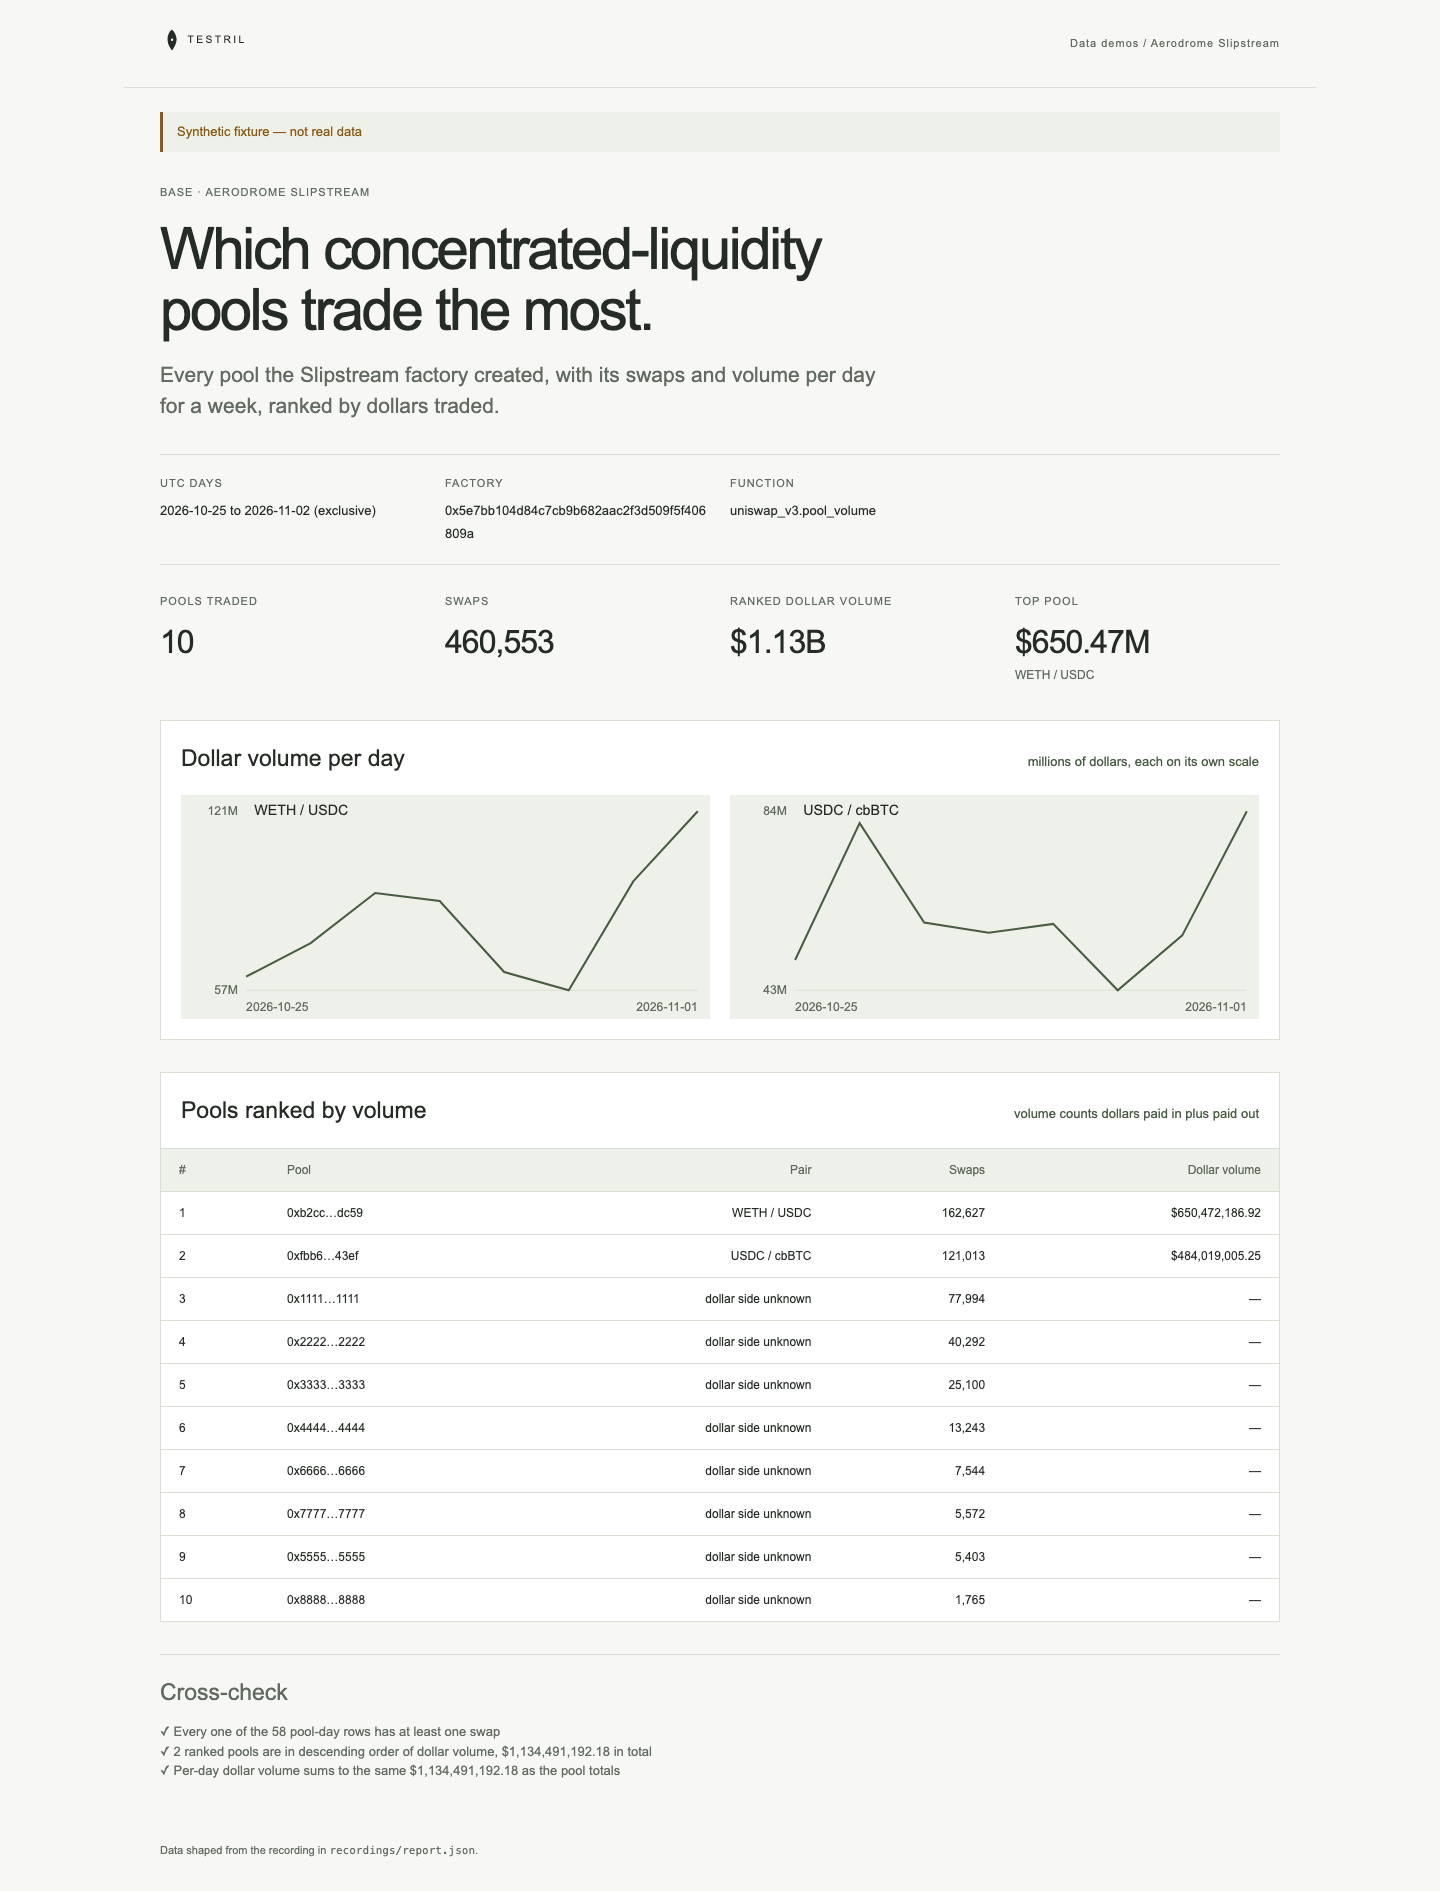
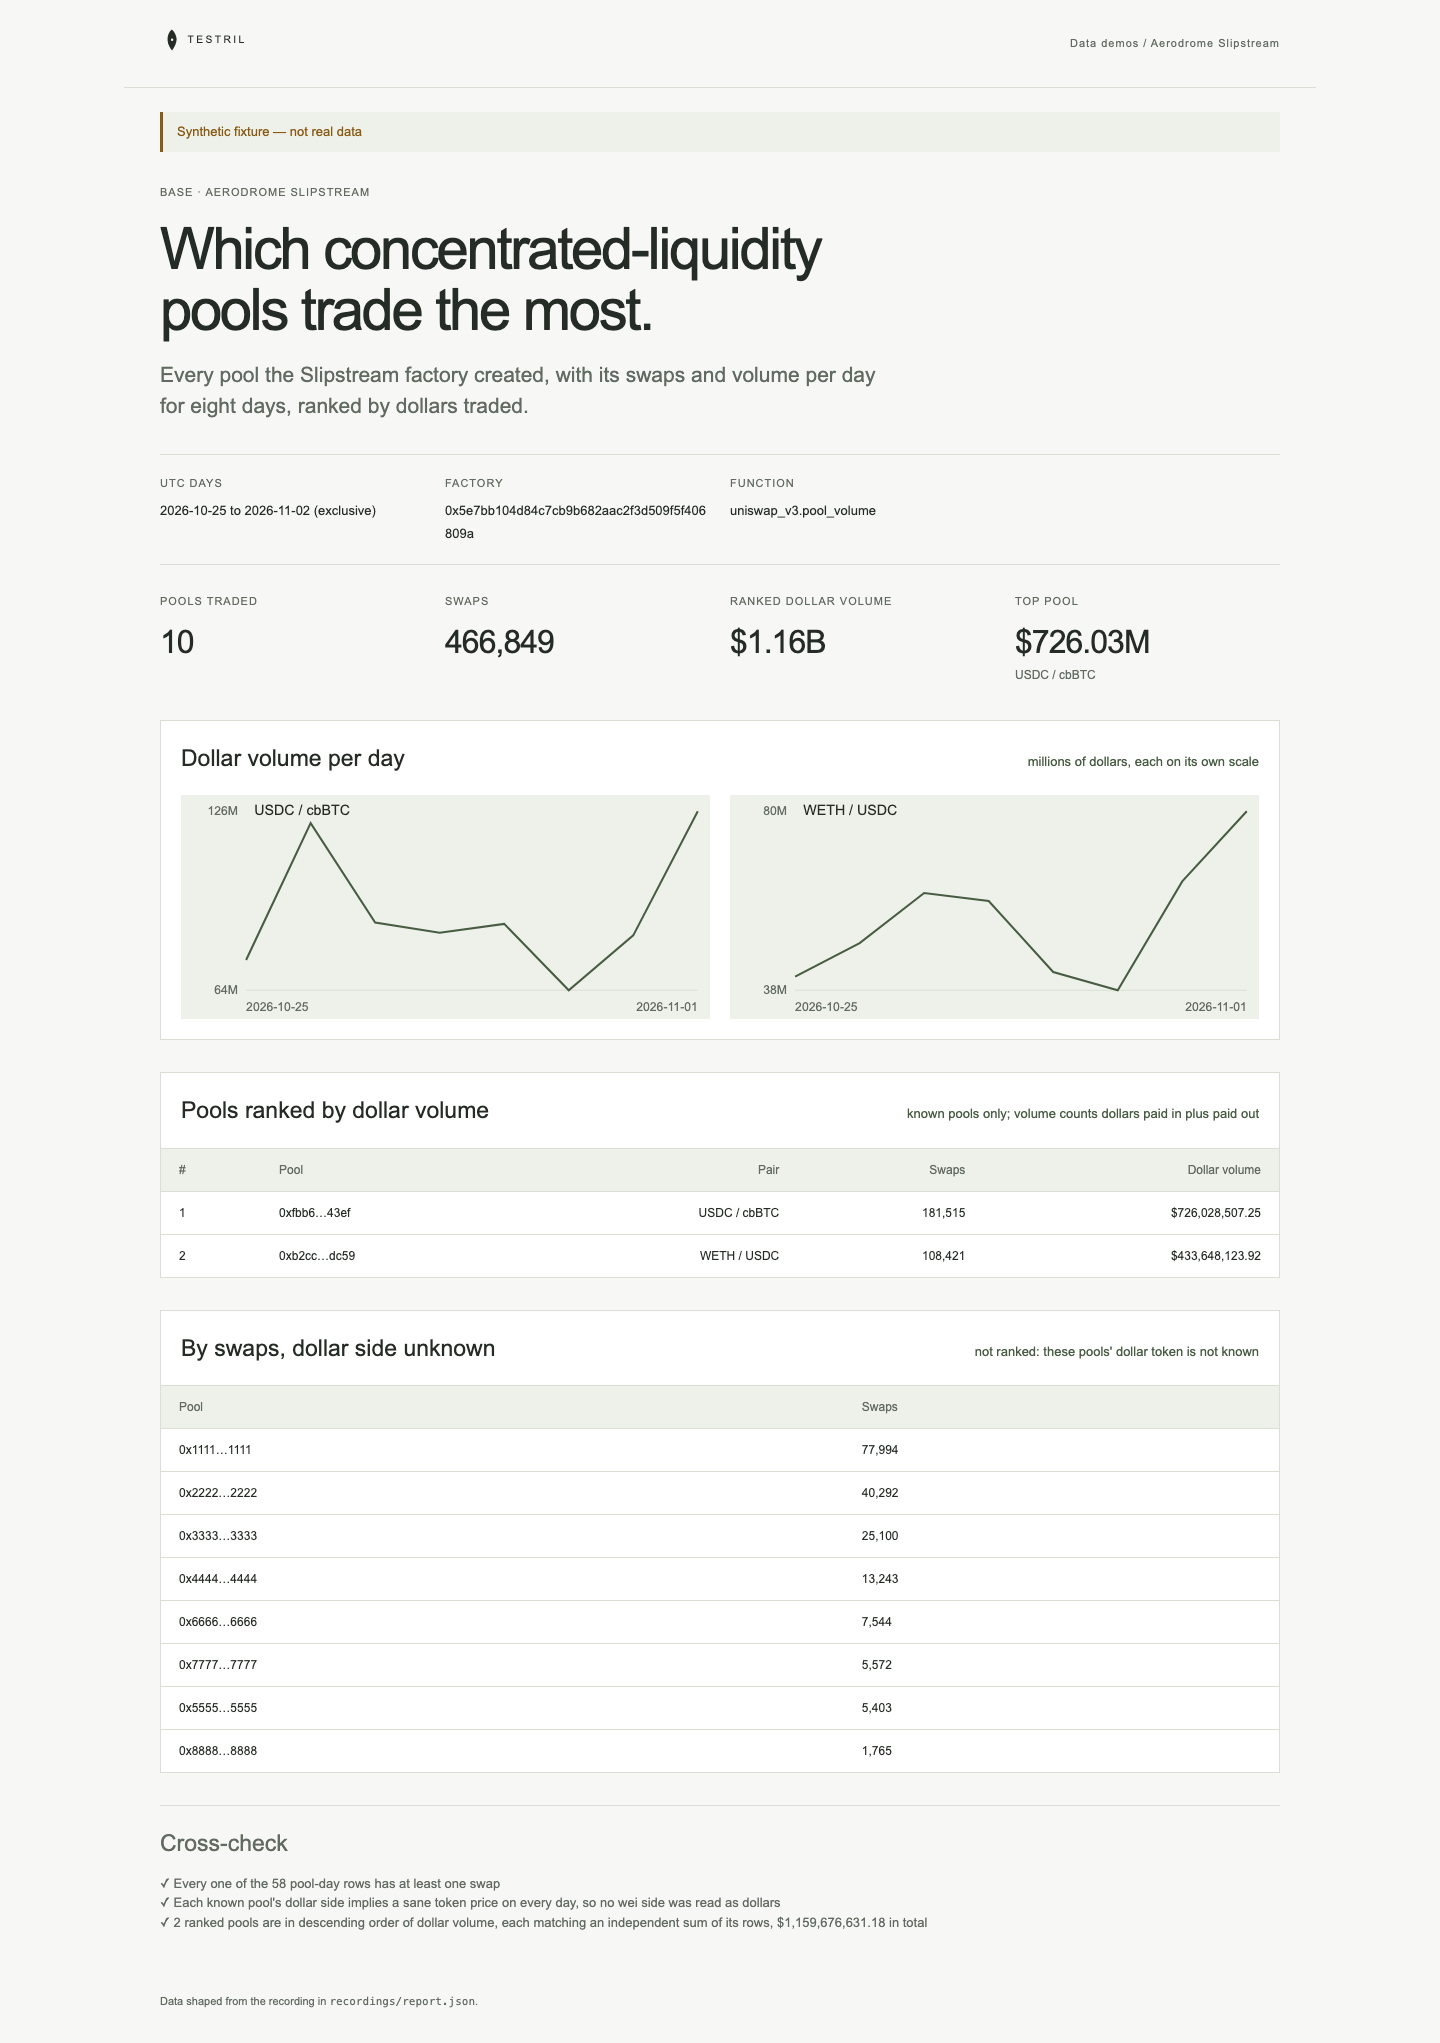
Check the dollar side unit and split unranked pools in the Slipstream demo

diff --git a/demos/aerodrome-slipstream/public/app.js b/demos/aerodrome-slipstream/public/app.js
@@ -31,6 +31,12 @@ function metric(label, value, note) {
   return node;
 }
 
+function tableRow(...cells) {
+  const row = element("tr");
+  row.append(...cells.map((text) => element("td", text)));
+  return row;
+}
+
 function lineChart({ symbol, series }) {
   const width = 520;
   const height = 220;
@@ -102,19 +108,18 @@ function render(report) {
   document
     .querySelector("#chart")
     .replaceChildren(...view.charts.map(lineChart));
-  document.querySelector("#pools").replaceChildren(
-    ...view.pools.map((pool) => {
-      const row = element("tr");
-      row.append(
-        element("td", pool.rank),
-        element("td", pool.pool),
-        element("td", pool.pair),
-        element("td", pool.swaps),
-        element("td", pool.volume),
-      );
-      return row;
-    }),
-  );
+  document
+    .querySelector("#pools")
+    .replaceChildren(
+      ...view.rankedPools.map((pool) =>
+        tableRow(pool.rank, pool.pool, pool.pair, pool.swaps, pool.volume),
+      ),
+    );
+  document
+    .querySelector("#unranked")
+    .replaceChildren(
+      ...view.unrankedPools.map((pool) => tableRow(pool.pool, pool.swaps)),
+    );
   const checks = document.querySelector("#checks");
   checks.replaceChildren(
     ...(report.checks.ok

diff --git a/demos/aerodrome-slipstream/public/index.html b/demos/aerodrome-slipstream/public/index.html
@@ -52,8 +52,10 @@
       </section>
       <section class="results">
         <div class="section-heading">
-          <h2>Pools ranked by volume</h2>
-          <span>volume counts dollars paid in plus paid out</span>
+          <h2>Pools ranked by dollar volume</h2>
+          <span
+            >known pools only; volume counts dollars paid in plus paid out</span
+          >
         </div>
         <div class="table-wrap">
           <table>
@@ -67,6 +69,23 @@
               </tr>
             </thead>
             <tbody id="pools"></tbody>
+          </table>
+        </div>
+      </section>
+      <section class="results">
+        <div class="section-heading">
+          <h2>By swaps, dollar side unknown</h2>
+          <span>not ranked: these pools' dollar token is not known</span>
+        </div>
+        <div class="table-wrap">
+          <table>
+            <thead>
+              <tr>
+                <th>Pool</th>
+                <th>Swaps</th>
+              </tr>
+            </thead>
+            <tbody id="unranked"></tbody>
           </table>
         </div>
       </section>

diff --git a/demos/aerodrome-slipstream/README.md b/demos/aerodrome-slipstream/README.md
@@ -2,9 +2,9 @@
 
 Swaps and volume per pool per day for every pool created by the Aerodrome
 Slipstream factory on Base, ranked by dollars traded. The page proves its
-numbers: every pool-day row has at least one swap, the ranking is in descending
-order of summed dollar volume, and the per-day totals add up to the same figure
-as the per-pool totals.
+numbers: every pool-day row has at least one swap, each known pool's dollar side
+implies a sane token price, and the ranking is in descending order of dollar
+volume that matches an independent sum of each pool's rows.
 
 **The shipped recording is synthetic.** `recordings/report.json` is generated
 by `test/fixture.mjs` and the page says so in its banner. The eight pools
@@ -28,7 +28,7 @@ npm start
 
 Open http://127.0.0.1:4180 (set `PORT` to change it). Expected result: the
 synthetic banner, four headline numbers, a daily dollar-volume line for each
-ranked pool, a table of all pools, and three passed cross-checks.
+ranked pool, a table of ranked pools, a table of unranked pools, and three passed cross-checks.
 
 ## Test
 
@@ -56,7 +56,7 @@ recording.
 - Volume is a pool's tokens paid in plus paid out, in raw units. Pools of
   different token pairs can only be compared in dollars, so the ranking uses
   the dollar side of the pools listed in `knownPools` in `src/report.mjs`. Any
-  other pool is listed after them by swaps, with no dollar volume.
+  other pool is listed in a separate table by swaps, with no dollar volume.
 
 | Pool         | Address                                      | Dollar side      | Note                    |
 | ------------ | -------------------------------------------- | ---------------- | ----------------------- |
@@ -74,7 +74,9 @@ USDC on Base is `0x833589fcd6edb6e08f4c7c32d4f71b54bda02913` with 6 decimals.
 ## Record real data
 
 Needs a funded payment channel and an operator key in `tools/prepare/.env`; both
-are absent after extraction from the repository.
+are absent after extraction from the repository. Verify the USDC / cbBTC pool is
+from the Slipstream factory first. Run from `demos/aerodrome-slipstream`; it
+writes `recordings/report.json` with source `"dev"`.
 
 ```sh
 npm run record
